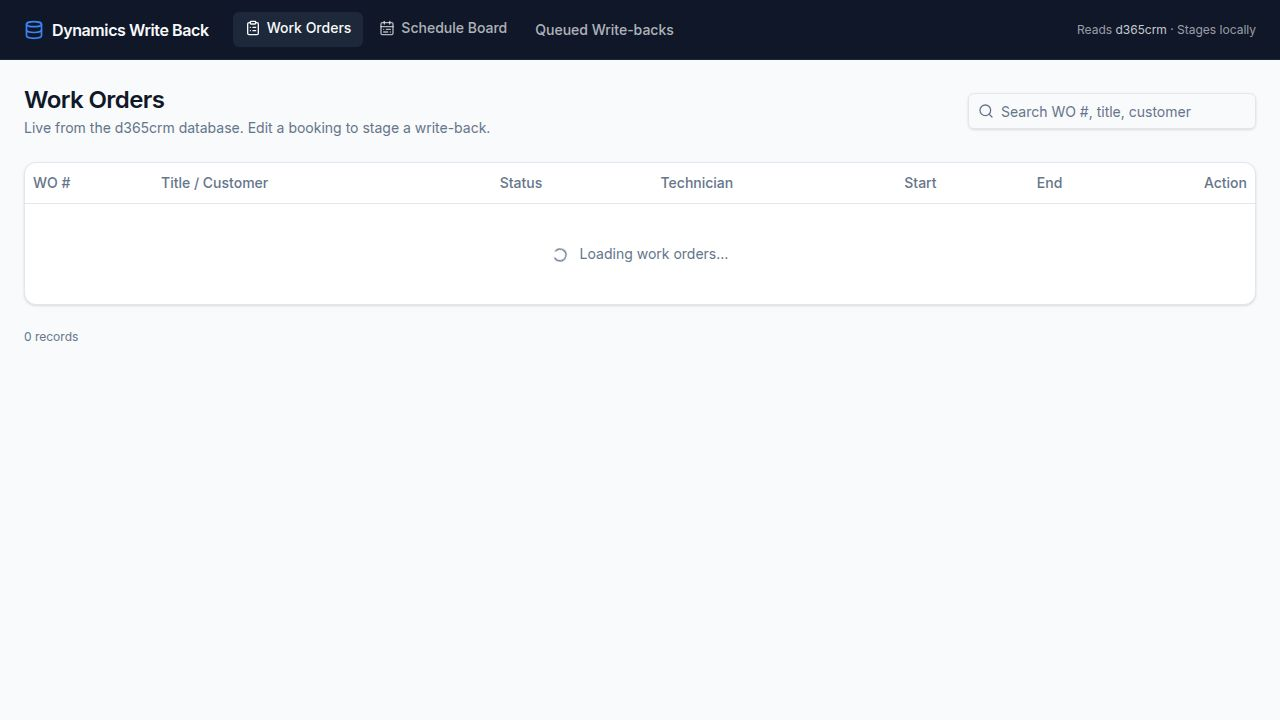
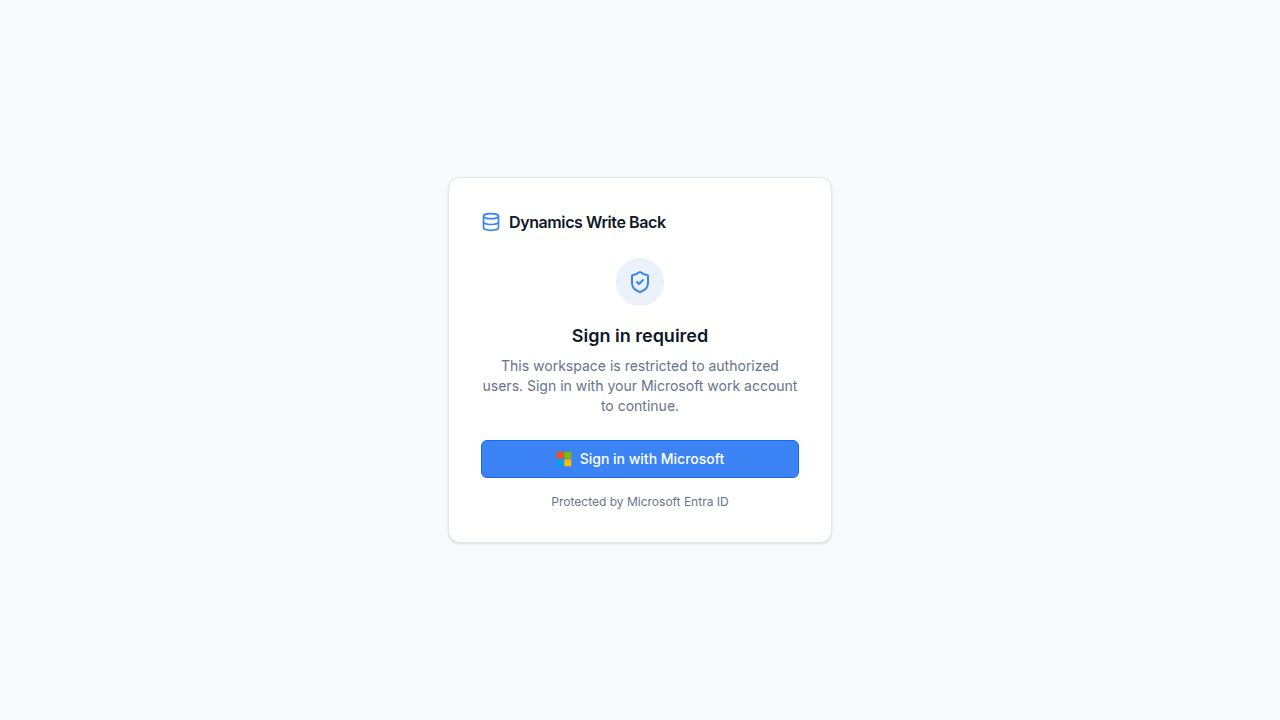
Add secure login system to the Dynamics Write Back application
Implement Microsoft Entra ID authentication with a login gate and return-to-app functionality in the Dynamics Write Back application.

Replit-Commit-Author: Agent
Replit-Commit-Session-Id: 822cad71-469e-4383-b209-739d325a5846
Replit-Commit-Checkpoint-Type: full_checkpoint
Replit-Commit-Event-Id: 6c07d54b-b734-42b6-ae99-e48fd9b19384
Replit-Commit-Screenshot-Url: https://storage.googleapis.com/screenshot-production-us-central1/9b96c305-90c2-4d6f-b802-c99a1cd8fce4/822cad71-469e-4383-b209-739d325a5846/Egx2GaL
Replit-Helium-Checkpoint-Created: true

diff --git a/artifacts/dynamics-write-back/src/App.tsx b/artifacts/dynamics-write-back/src/App.tsx
@@ -2,7 +2,10 @@ import { Switch, Route, Router as WouterRouter, Link, useLocation } from "wouter
 import { QueryClient, QueryClientProvider } from "@tanstack/react-query";
 import { Toaster } from "@/components/ui/toaster";
 import { TooltipProvider } from "@/components/ui/tooltip";
-import { Database, ClipboardList, CalendarRange, Globe, CalendarClock, FileBarChart } from "lucide-react";
+import { Button } from "@/components/ui/button";
+import { Database, ClipboardList, CalendarRange, Globe, CalendarClock, FileBarChart, LogOut } from "lucide-react";
+import { AuthProvider, useAuth } from "@/hooks/useAuth";
+import { LoginGate } from "@/components/LoginGate";
 import Dashboard from "@/pages/Dashboard";
 import ServiceReports from "@/pages/ServiceReports";
 import WorkOrders from "@/pages/WorkOrders";
@@ -38,6 +41,48 @@ function NavLink({ href, children }: { href: string; children: React.ReactNode }
     >
       {children}
     </Link>
+  );
+}
+
+function SidebarUser() {
+  const { user, logout } = useAuth();
+
+  const displayName = user?.displayName ?? user?.email ?? "Signed in";
+  const initials = (user?.displayName ?? user?.email ?? "?")
+    .split(/[\s@.]+/)
+    .filter(Boolean)
+    .slice(0, 2)
+    .map((part) => part[0]?.toUpperCase() ?? "")
+    .join("");
+
+  return (
+    <div className="border-t border-sidebar-border p-3">
+      <div className="flex items-center gap-2.5 px-1 py-1.5">
+        <div className="flex h-8 w-8 shrink-0 items-center justify-center rounded-full bg-sidebar-primary/15 text-xs font-semibold text-sidebar-primary">
+          {initials || "?"}
+        </div>
+        <div className="min-w-0 flex-1">
+          <div className="truncate text-sm font-medium text-sidebar-foreground">
+            {displayName}
+          </div>
+          {user?.email && user.email !== displayName ? (
+            <div className="truncate text-xs text-sidebar-foreground/60">{user.email}</div>
+          ) : (
+            <div className="truncate text-xs text-sidebar-foreground/60 capitalize">
+              {user?.role}
+            </div>
+          )}
+        </div>
+      </div>
+      <Button
+        variant="ghost"
+        size="sm"
+        className="mt-1 w-full justify-start gap-2 text-sidebar-foreground/70 hover:text-sidebar-foreground hover:bg-sidebar-accent/50"
+        onClick={logout}
+      >
+        <LogOut className="h-4 w-4" /> Sign out
+      </Button>
+    </div>
   );
 }
 
@@ -77,9 +122,7 @@ function Layout({ children }: { children: React.ReactNode }) {
           </NavLink>
           <NavLink href="/writebacks">Queued Write-backs</NavLink>
         </nav>
-        <div className="px-4 py-3 text-xs text-sidebar-foreground/60 border-t border-sidebar-border">
-          Reads <span className="text-sidebar-foreground/80">d365crm</span> · Stages locally
-        </div>
+        <SidebarUser />
       </aside>
       <main className="flex-1 min-w-0 px-6 py-6">{children}</main>
     </div>
@@ -110,10 +153,14 @@ function App() {
   return (
     <QueryClientProvider client={queryClient}>
       <TooltipProvider>
-        <WouterRouter base={import.meta.env.BASE_URL.replace(/\/$/, "")}>
-          <Router />
-        </WouterRouter>
-        <Toaster />
+        <AuthProvider>
+          <LoginGate>
+            <WouterRouter base={import.meta.env.BASE_URL.replace(/\/$/, "")}>
+              <Router />
+            </WouterRouter>
+          </LoginGate>
+          <Toaster />
+        </AuthProvider>
       </TooltipProvider>
     </QueryClientProvider>
   );

diff --git a/artifacts/dynamics-write-back/src/hooks/useAuth.tsx b/artifacts/dynamics-write-back/src/hooks/useAuth.tsx
@@ -1,0 +1,92 @@
+import { createContext, useContext, useEffect, useState, type ReactNode } from "react";
+
+export interface AuthUser {
+  entraOid: string;
+  email: string | undefined;
+  displayName: string | undefined;
+  role: string;
+}
+
+type AuthStatus = "loading" | "authenticated" | "unauthenticated";
+
+interface AuthContextValue {
+  status: AuthStatus;
+  user: AuthUser | null;
+  login: () => void;
+  logout: () => void;
+}
+
+const AuthContext = createContext<AuthContextValue | null>(null);
+
+// Auth routes live at the absolute /api prefix on the shared api-server,
+// independent of this app's base path.
+const ME_URL = "/api/me";
+const LOGIN_URL = "/api/login";
+const LOGOUT_URL = "/api/logout";
+
+export function AuthProvider({ children }: { children: ReactNode }) {
+  const [status, setStatus] = useState<AuthStatus>("loading");
+  const [user, setUser] = useState<AuthUser | null>(null);
+
+  useEffect(() => {
+    let cancelled = false;
+
+    async function loadUser() {
+      try {
+        const res = await fetch(ME_URL, {
+          credentials: "same-origin",
+          headers: { accept: "application/json" },
+        });
+        if (cancelled) return;
+        if (res.ok) {
+          const data = (await res.json()) as AuthUser;
+          setUser(data);
+          setStatus("authenticated");
+        } else {
+          setUser(null);
+          setStatus("unauthenticated");
+        }
+      } catch {
+        if (cancelled) return;
+        setUser(null);
+        setStatus("unauthenticated");
+      }
+    }
+
+    loadUser();
+    return () => {
+      cancelled = true;
+    };
+  }, []);
+
+  function login() {
+    // Full-page navigation into the OAuth authorization-code flow. Bring the
+    // user back to their current location within this app after login.
+    const returnTo = window.location.pathname + window.location.search;
+    window.location.href = `${LOGIN_URL}?returnTo=${encodeURIComponent(returnTo)}`;
+  }
+
+  function logout() {
+    // POST to /logout, then send the browser to Entra's logout endpoint (the
+    // server responds with a redirect that a full navigation will follow).
+    const form = document.createElement("form");
+    form.method = "POST";
+    form.action = LOGOUT_URL;
+    document.body.appendChild(form);
+    form.submit();
+  }
+
+  return (
+    <AuthContext.Provider value={{ status, user, login, logout }}>
+      {children}
+    </AuthContext.Provider>
+  );
+}
+
+export function useAuth(): AuthContextValue {
+  const ctx = useContext(AuthContext);
+  if (!ctx) {
+    throw new Error("useAuth must be used within an AuthProvider");
+  }
+  return ctx;
+}

diff --git a/artifacts/dynamics-write-back/src/components/LoginGate.tsx b/artifacts/dynamics-write-back/src/components/LoginGate.tsx
@@ -1,0 +1,73 @@
+import type { ReactNode } from "react";
+import { Database, ShieldCheck } from "lucide-react";
+import { Button } from "@/components/ui/button";
+import { Spinner } from "@/components/ui/spinner";
+import { useAuth } from "@/hooks/useAuth";
+
+function MicrosoftLogo() {
+  return (
+    <svg
+      aria-hidden="true"
+      viewBox="0 0 23 23"
+      className="h-4 w-4"
+      xmlns="http://www.w3.org/2000/svg"
+    >
+      <path fill="#f25022" d="M1 1h10v10H1z" />
+      <path fill="#7fba00" d="M12 1h10v10H12z" />
+      <path fill="#00a4ef" d="M1 12h10v10H1z" />
+      <path fill="#ffb900" d="M12 12h10v10H12z" />
+    </svg>
+  );
+}
+
+export function LoginGate({ children }: { children: ReactNode }) {
+  const { status, login } = useAuth();
+
+  if (status === "loading") {
+    return (
+      <div className="min-h-screen flex items-center justify-center bg-background">
+        <div className="flex items-center gap-3 text-muted-foreground">
+          <Spinner className="h-5 w-5" />
+          <span className="text-sm">Checking your sign-in…</span>
+        </div>
+      </div>
+    );
+  }
+
+  if (status === "unauthenticated") {
+    return (
+      <div className="min-h-screen flex items-center justify-center bg-background px-4">
+        <div className="w-full max-w-sm rounded-xl border border-border bg-card p-8 shadow-sm">
+          <div className="flex items-center gap-2 text-card-foreground">
+            <Database className="h-5 w-5 text-primary" />
+            <span className="font-semibold tracking-tight">Dynamics Write Back</span>
+          </div>
+
+          <div className="mt-6 flex flex-col items-center text-center">
+            <div className="flex h-12 w-12 items-center justify-center rounded-full bg-primary/10">
+              <ShieldCheck className="h-6 w-6 text-primary" />
+            </div>
+            <h1 className="mt-4 text-lg font-semibold text-card-foreground">
+              Sign in required
+            </h1>
+            <p className="mt-1.5 text-sm text-muted-foreground">
+              This workspace is restricted to authorized users. Sign in with your
+              Microsoft work account to continue.
+            </p>
+          </div>
+
+          <Button className="mt-6 w-full gap-2" onClick={login}>
+            <MicrosoftLogo />
+            Sign in with Microsoft
+          </Button>
+
+          <p className="mt-4 text-center text-xs text-muted-foreground">
+            Protected by Microsoft Entra ID
+          </p>
+        </div>
+      </div>
+    );
+  }
+
+  return <>{children}</>;
+}

diff --git a/artifacts/api-server/src/routes/auth.ts b/artifacts/api-server/src/routes/auth.ts
@@ -12,11 +12,27 @@ import {
 
 const router = Router();
 
+// Only allow local, same-origin relative paths as a post-login destination.
+// This prevents open-redirect abuse (protocol-relative `//evil.com`, absolute
+// URLs, or backslash tricks). Falls back to "/" when the value is unsafe.
+function sanitizeReturnTo(value: unknown): string {
+  if (typeof value !== "string") return "/";
+  if (!value.startsWith("/")) return "/";
+  // Reject protocol-relative ("//host") and backslash-escaped variants.
+  if (value.startsWith("//") || value.startsWith("/\\")) return "/";
+  return value;
+}
+
 router.get("/login", async (req, res) => {
   if (!isAuthConfigured()) {
     res.status(503).send("Azure auth is not configured");
     return;
   }
+
+  // Remember where to send the user back to after a successful login so that
+  // path-based frontends (e.g. /dynamics-write-back/) land back in their app
+  // instead of the root.
+  req.session.returnTo = sanitizeReturnTo(req.query.returnTo);
 
   // Bind the request to the session with a random state value to defend against
   // login CSRF / authorization-response injection.
@@ -102,7 +118,9 @@ router.get("/auth/callback", async (req, res) => {
       role: result.rows[0].role,
     };
 
-    res.redirect("/");
+    const returnTo = sanitizeReturnTo(req.session.returnTo);
+    delete req.session.returnTo;
+    res.redirect(returnTo);
   } catch (err) {
     req.log.error({ err }, "Azure login failed");
     res.status(500).send("Login failed");

diff --git a/artifacts/api-server/src/lib/auth.ts b/artifacts/api-server/src/lib/auth.ts
@@ -92,5 +92,6 @@ declare module "express-session" {
   interface SessionData {
     user?: SessionUser;
     authState?: string;
+    returnTo?: string;
   }
 }

diff --git a/.agents/memory/api-server-azure-auth.md b/.agents/memory/api-server-azure-auth.md
@@ -5,6 +5,10 @@ description: How Entra/Azure login is wired into the api-server and why existing
 
 The api-server has Entra (Azure AD) login via MSAL authorization-code flow, mounted under `/api` (so `/api/login`, `/api/auth/callback`, `/api/me`, `/api/logout`). Sessions are stored in Postgres (`DATABASE_URL` / `localPool`) via connect-pg-simple; `requireLogin` / `requireRole` middleware exist.
 
-**Decision:** Existing business routes (writeback, technicians, workOrders, dashboard, schedule board, etc.) are intentionally NOT yet wrapped with auth middleware.
-**Why:** The three web frontends (field-service-schedule-board, dynamics-write-back, technician-dashboard) call `/api/*` with no login flow. Globally enforcing auth would 401 all of them. Gating routes is a product decision that requires adding login to the frontends first.
-**How to apply:** Before adding `requireLogin`/`requireRole` to existing routers, confirm the calling frontend(s) actually perform login, or you will break them. Azure app registration must have the redirect URI registered and users seeded into `app.app_user`.
+**Decision:** Existing business routes (writeback, technicians, workOrders, dashboard, schedule board, etc.) are intentionally NOT yet wrapped with auth middleware — this remains true even though dynamics-write-back now has a login gate.
+**Why:** field-service-schedule-board AND dynamics-write-back both call the SAME shared `/api/wb/*` endpoints, but field-service-schedule-board has no login. Gating those shared routes server-side would 401 the schedule board. So per-app login must be enforced client-side, not by gating the shared routes.
+**How to apply:** Before adding `requireLogin`/`requireRole` to existing routers, confirm EVERY frontend that calls that route performs login, or you will break the ones that don't. Azure app registration must have the redirect URI registered and users seeded into `app.app_user`.
+
+**Current state:** dynamics-write-back has a client-side Entra login gate (AuthProvider/useAuth + LoginGate in its `src`) that calls `/api/me` and renders a "Sign in with Microsoft" screen when 401. It's a UX gate only, NOT a real authz boundary (shared wb routes stay open). If real authorization is needed later, protect only the mutating write-back routes and give the schedule board its own login too.
+
+**returnTo:** `/api/login?returnTo=<relative path>` is supported — `sanitizeReturnTo` (in routes/auth.ts) only accepts same-origin paths (rejects `//`, `/\`, absolute/non-string) and callback redirects there instead of hardcoded `/`. Needed because path-based apps (e.g. `/dynamics-write-back/`) must land back in their own app after login.
